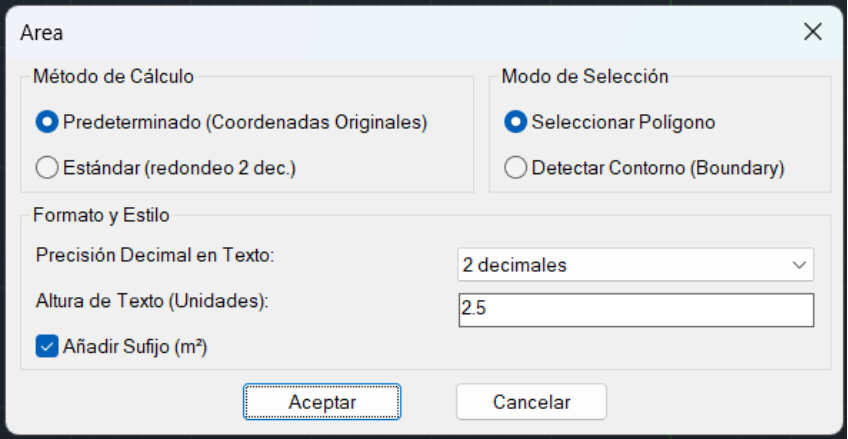
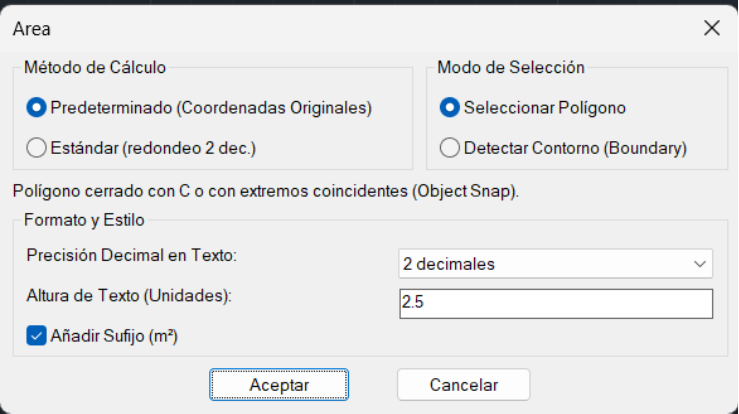
fix(lisp): admitir cierre manual y etiquetas personalizadas de lotes

Changed region(s): [[0.0, 0.0, 1.0, 1.0], [0.5913, 0.2319, 0.9337, 0.4058], [0.5913, 0.1449, 0.8092, 0.2029]]

diff --git a/README.md b/README.md
@@ -158,11 +158,21 @@ Consulta las opciones de cada herramienta. Puedes plegar las secciones si lo pre
 
 Elige el formato del área, los decimales y el tamaño del texto.
 
+**Cierre del polígono.** Puedes seleccionar una `LWPOLYLINE` cerrada con `Cerrar (C)` o cerrada manualmente haciendo coincidir el último vértice con el primero mediante Object Snap. El cierre manual requiere al menos tres vértices más el punto final repetido; se admite una diferencia máxima de `0.00000001` unidades de dibujo entre los extremos para absorber ruido numérico. No se modifica la polilínea original ni se cierran contornos con extremos separados por encima de esa tolerancia. Funciona en los dos métodos de cálculo.
+
 <img src="docs/images/Area.png" width="660" alt="Ventana de MCAREA con opciones de cálculo y rotulación de superficies" loading="lazy">
 
 ### Subdivisión
 
 Configura cortes paralelos o en abanico y define cómo repartir la superficie.
+
+**Etiqueta personalizada (opcional).** En «Precisión y etiquetas» podés cambiar el nombre de los lotes. Si dejás el campo vacío, se mantiene `Lote 1`, `Lote 2`… Si escribís un texto, la secuencia desde `1` se agrega directamente, sin espacios ni separadores adicionales; el área sigue apareciendo debajo.
+
+| Texto ingresado | Rótulos generados |
+| --- | --- |
+| Vacío | `Lote 1`, `Lote 2`, `Lote 3`… |
+| `Solar` | `Solar1`, `Solar2`, `Solar3`… |
+| `6622026107043_1_` | `6622026107043_1_1`, `6622026107043_1_2`, `6622026107043_1_3`… |
 
 <img src="docs/images/Subdividir.png" width="660" alt="Ventana de MCSUBDIV para dividir parcelas" loading="lazy">
 
